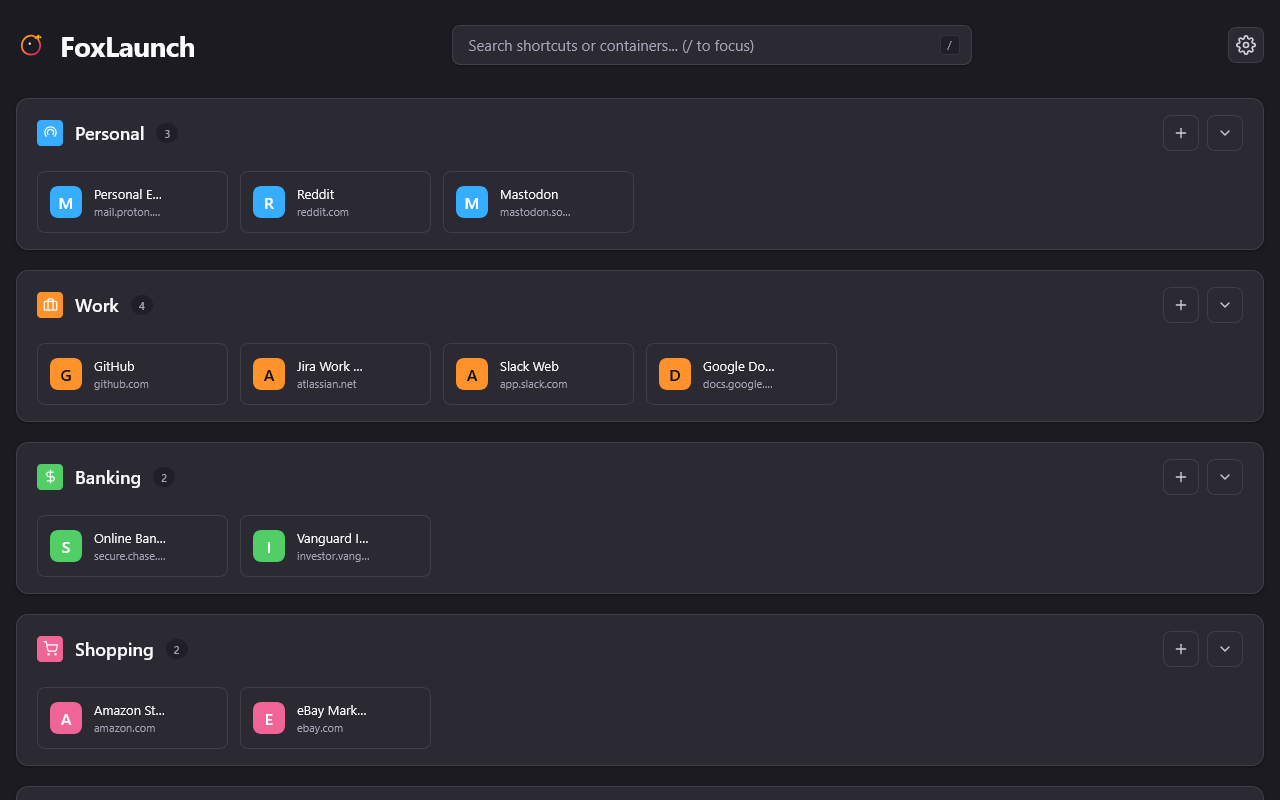
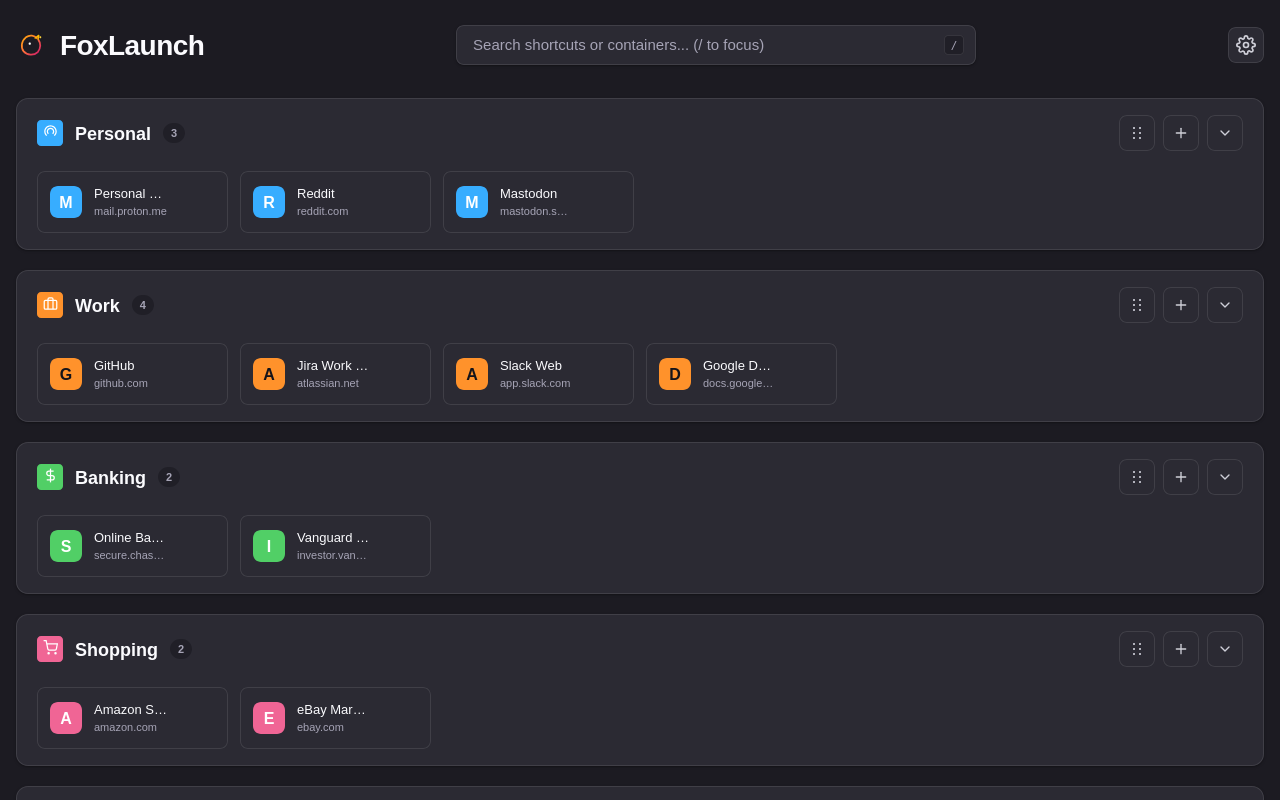
feat(swimlane): enable drag-and-drop ordering

diff --git a/src/app.ts b/src/app.ts
@@ -13,8 +13,9 @@ import './styles/onboarding.css';
 
 import type { ContainerContext, ShortcutItem, FoxLaunchSettings, ThemeMode } from './types';
 import { getContainers } from './services/containers';
-import { getShortcuts, getSettings, addShortcut, updateShortcut, deleteShortcut, saveShortcuts } from './services/storage';
+import { getShortcuts, getSettings, addShortcut, updateShortcut, deleteShortcut, saveShortcuts, saveSettings } from './services/storage';
 import { renderSwimlane, type SwimlaneCallbacks } from './components/swimlane';
+import { setupSwimlaneReordering } from './components/dragDrop';
 import { initSearch, type SearchController } from './components/search';
 import { openShortcutModal } from './components/modal';
 import { openSettingsModal } from './components/settingsModal';
@@ -24,6 +25,7 @@ import { showUndoToast } from './components/toast';
 let searchController: SearchController | null = null;
 let appSettings: FoxLaunchSettings;
 let discoveredContainers: ContainerContext[] = [];
+let swimlaneReorderingInitialized = false;
 
 let themeMediaQueryList: MediaQueryList | null = null;
 let themeChangeHandler: ((e: MediaQueryListEvent) => void) | null = null;
@@ -165,6 +167,25 @@ async function handleReorderShortcuts(cookieStoreId: string, _reordered: Shortcu
   await refreshSwimlane(cookieStoreId);
 }
 
+async function handleReorderSwimlanes(cookieStoreIds: string[]): Promise<void> {
+  appSettings = await saveSettings({ swimlaneOrder: cookieStoreIds });
+}
+
+function orderContainers(containers: ContainerContext[], order: string[]): ContainerContext[] {
+  const containersById = new Map(containers.map((container) => [container.cookieStoreId, container]));
+  const ordered: ContainerContext[] = [];
+  const orderedIds = new Set<string>();
+  order.forEach((cookieStoreId) => {
+    const container = containersById.get(cookieStoreId);
+    if (container && !orderedIds.has(cookieStoreId)) {
+      ordered.push(container);
+      orderedIds.add(cookieStoreId);
+    }
+  });
+
+  return [...ordered, ...containers.filter((container) => !orderedIds.has(container.cookieStoreId))];
+}
+
 export async function initializeApp(): Promise<void> {
   const startTime = performance.now();
   try {
@@ -187,6 +208,11 @@ export async function initializeApp(): Promise<void> {
   // Mount swimlanes
   const swimlanesContainer = document.getElementById('swimlanes-container');
   if (swimlanesContainer) {
+    if (!swimlaneReorderingInitialized) {
+      setupSwimlaneReordering(swimlanesContainer, handleReorderSwimlanes);
+      swimlaneReorderingInitialized = true;
+    }
+
     swimlanesContainer.replaceChildren();
     const fragment = document.createDocumentFragment();
 
@@ -197,7 +223,7 @@ export async function initializeApp(): Promise<void> {
       onReorderShortcuts: (cid, reordered) => handleReorderShortcuts(cid, reordered),
     };
 
-    containers.forEach((container) => {
+    orderContainers(containers, settings.swimlaneOrder).forEach((container) => {
       const shortcuts = shortcutsMap[container.cookieStoreId] || [];
       const swimlaneEl = renderSwimlane(container, shortcuts, appSettings, callbacks);
       fragment.appendChild(swimlaneEl);

diff --git a/src/components/dragDrop.ts b/src/components/dragDrop.ts
@@ -87,3 +87,72 @@ export function setupSwimlaneDragAndDrop(
     document.querySelectorAll('.drag-over').forEach((el) => el.classList.remove('drag-over'));
   });
 }
+
+export function setupSwimlaneReordering(
+  container: HTMLElement,
+  onReordered: (cookieStoreIds: string[]) => Promise<void> | void
+): void {
+  let draggedSwimlane: HTMLElement | null = null;
+
+  const clearDragState = () => {
+    draggedSwimlane?.classList.remove('is-dragging');
+    draggedSwimlane = null;
+    container.querySelectorAll('.swimlane.drag-over').forEach((lane) => lane.classList.remove('drag-over'));
+  };
+
+  container.addEventListener('dragstart', (event: DragEvent) => {
+    const handle = (event.target as HTMLElement).closest<HTMLElement>('.swimlane-drag-handle');
+    const swimlane = handle?.closest<HTMLElement>('.swimlane');
+    if (!swimlane) return;
+
+    draggedSwimlane = swimlane;
+    swimlane.classList.add('is-dragging');
+
+    if (event.dataTransfer) {
+      event.dataTransfer.effectAllowed = 'move';
+      event.dataTransfer.setData('text/plain', swimlane.dataset.cookieStoreId || '');
+    }
+  });
+
+  container.addEventListener('dragover', (event: DragEvent) => {
+    if (!draggedSwimlane) return;
+
+    const target = (event.target as HTMLElement).closest<HTMLElement>('.swimlane');
+    if (!target || target === draggedSwimlane || target.parentElement !== container) return;
+
+    event.preventDefault();
+    if (event.dataTransfer) event.dataTransfer.dropEffect = 'move';
+
+    container.querySelectorAll('.swimlane.drag-over').forEach((lane) => lane.classList.remove('drag-over'));
+    target.classList.add('drag-over');
+  });
+
+  container.addEventListener('drop', async (event: DragEvent) => {
+    if (!draggedSwimlane) return;
+
+    const target = (event.target as HTMLElement).closest<HTMLElement>('.swimlane');
+    if (!target || target === draggedSwimlane || target.parentElement !== container) return;
+
+    event.preventDefault();
+    const bounds = target.getBoundingClientRect();
+    if (event.clientY < bounds.top + bounds.height / 2) {
+      container.insertBefore(draggedSwimlane, target);
+    } else {
+      target.after(draggedSwimlane);
+    }
+
+    const cookieStoreIds = Array.from(container.children)
+      .filter((child): child is HTMLElement => child instanceof HTMLElement && child.classList.contains('swimlane'))
+      .map((lane) => lane.dataset.cookieStoreId)
+      .filter((id): id is string => Boolean(id));
+
+    clearDragState();
+    try {
+      await onReordered(cookieStoreIds);
+    } catch (error) {
+      console.error('[FoxLaunch] Failed to persist swimlane order:', error);
+    }
+  });
+
+  container.addEventListener('dragend', clearDragState);
+}

diff --git a/tests/e2e/harness.spec.ts b/tests/e2e/harness.spec.ts
@@ -63,6 +63,37 @@ test.describe('Mock WebExtension Test Harness Verification', () => {
     expect(reloadedStorage.foxlaunch_shortcuts['firefox-container-1'][1].title).toBe('GitHub');
   });
 
+  test('swimlane drag-and-drop order persists across page reload', async ({ openFoxLaunch, page, mockHarness }) => {
+    await openFoxLaunch({ containers: DEFAULT_MOCK_CONTAINERS });
+
+    await page
+      .locator('#swimlane-firefox-container-1 .swimlane-drag-handle')
+      .dragTo(page.locator('#swimlane-firefox-container-3 .swimlane-drag-handle'));
+
+    const reorderedIds = await page.locator('#swimlanes-container > .swimlane').evaluateAll((lanes) =>
+      lanes.map((lane) => lane.getAttribute('data-cookie-store-id'))
+    );
+    expect(reorderedIds).toEqual([
+      'firefox-container-2',
+      'firefox-container-1',
+      'firefox-container-3',
+      'firefox-container-4',
+      'firefox-default',
+    ]);
+
+    const settings = await page.evaluate(async () => {
+      const { foxlaunch_settings } = await window.browser.storage.local.get('foxlaunch_settings');
+      return foxlaunch_settings;
+    });
+    expect(settings.swimlaneOrder).toEqual(reorderedIds);
+
+    await mockHarness.reloadPage();
+    const reloadedIds = await page.locator('#swimlanes-container > .swimlane').evaluateAll((lanes) =>
+      lanes.map((lane) => lane.getAttribute('data-cookie-store-id'))
+    );
+    expect(reloadedIds).toEqual(reorderedIds);
+  });
+
   test('browser.tabs.create records dispatched tabs accurately', async ({ openFoxLaunch, page, mockHarness }) => {
     await openFoxLaunch();
 

diff --git a/tests/unit/storage.test.ts b/tests/unit/storage.test.ts
@@ -97,6 +97,7 @@ test.describe('Storage Service (browser.storage.local)', () => {
     expect(settings.theme).toBe('auto');
     expect(settings.firstRunDismissed).toBe(false);
     expect(settings.swimlaneCollapse['firefox-default']).toBe(true);
+    expect(settings.swimlaneOrder).toEqual([]);
   });
 
   test('saveSettings merges partial settings properly and preserves other fields', async () => {
@@ -123,6 +124,19 @@ test.describe('Storage Service (browser.storage.local)', () => {
     expect(s2.swimlaneCollapse['firefox-default']).toBe(true);
     expect(s2.swimlaneCollapse['firefox-container-1']).toBe(false);
     expect(s2.swimlaneCollapse['firefox-container-2']).toBe(true);
+  });
+
+  test('saveSettings persists swimlane order alongside other settings', async () => {
+    await saveSettings({ swimlaneOrder: ['firefox-container-2', 'firefox-container-1'] });
+    expect((await getSettings()).swimlaneOrder).toEqual([
+      'firefox-container-2',
+      'firefox-container-1',
+    ]);
+
+    await saveSettings({ theme: 'dark' });
+    const settings = await getSettings();
+    expect(settings.theme).toBe('dark');
+    expect(settings.swimlaneOrder).toEqual(['firefox-container-2', 'firefox-container-1']);
   });
 
   test('addShortcut generates id, timestamp, order, and domain', async () => {

diff --git a/src/components/swimlane.ts b/src/components/swimlane.ts
@@ -156,6 +156,23 @@ export function renderSwimlane(
   const actions = document.createElement('div');
   actions.className = 'swimlane-header-actions';
 
+  const dragHandle = document.createElement('button');
+  dragHandle.type = 'button';
+  dragHandle.className = 'btn-icon swimlane-drag-handle';
+  dragHandle.draggable = true;
+  dragHandle.setAttribute('aria-label', `Reorder ${container.name} swimlane`);
+  dragHandle.title = 'Drag to reorder';
+  const gripSvg = createSvg({ width: '16', height: '16', viewBox: '0 0 16 16', fill: 'currentColor', 'aria-hidden': 'true' }, [
+    createSvgElement('circle', { cx: '5', cy: '3', r: '1' }),
+    createSvgElement('circle', { cx: '11', cy: '3', r: '1' }),
+    createSvgElement('circle', { cx: '5', cy: '8', r: '1' }),
+    createSvgElement('circle', { cx: '11', cy: '8', r: '1' }),
+    createSvgElement('circle', { cx: '5', cy: '13', r: '1' }),
+    createSvgElement('circle', { cx: '11', cy: '13', r: '1' }),
+  ]);
+  dragHandle.appendChild(gripSvg);
+  actions.appendChild(dragHandle);
+
   const addBtn = document.createElement('button');
   addBtn.type = 'button';
   addBtn.className = 'btn-icon btn-add-shortcut';

diff --git a/src/services/storage.ts b/src/services/storage.ts
@@ -20,6 +20,7 @@ export const DEFAULT_SETTINGS: FoxLaunchSettings = {
   swimlaneCollapse: {
     'firefox-default': true, // Collapsed by default per R1 & Pilot Plan §D6
   },
+  swimlaneOrder: [],
 };
 
 /**
@@ -219,6 +220,9 @@ export async function getSettings(): Promise<FoxLaunchSettings> {
         ...DEFAULT_SETTINGS.swimlaneCollapse,
         ...(raw.swimlaneCollapse || {}),
       },
+      swimlaneOrder: Array.isArray(raw.swimlaneOrder)
+        ? [...new Set(raw.swimlaneOrder.filter((id): id is string => typeof id === 'string'))]
+        : [...DEFAULT_SETTINGS.swimlaneOrder],
     };
   } catch (error) {
     console.error('[FoxLaunch] Error reading settings:', error);

diff --git a/src/styles/swimlane.css b/src/styles/swimlane.css
@@ -19,6 +19,15 @@
   border-color: var(--border-strong);
 }
 
+.swimlane.is-dragging {
+  opacity: 0.5;
+}
+
+.swimlane.drag-over {
+  border-color: var(--focus-ring-active);
+  box-shadow: 0 0 0 2px var(--focus-ring-active);
+}
+
 /* Swimlane Header */
 .swimlane-header {
   display: flex;
@@ -74,6 +83,14 @@
   display: flex;
   align-items: center;
   gap: var(--space-2);
+}
+
+.swimlane-drag-handle {
+  cursor: grab;
+}
+
+.swimlane-drag-handle:active {
+  cursor: grabbing;
 }
 
 .swimlane-toggle svg {

diff --git a/tests/fixtures/presets.ts b/tests/fixtures/presets.ts
@@ -84,6 +84,7 @@ export const DEFAULT_SETTINGS: FoxLaunchSettings = {
   swimlaneCollapse: {
     'firefox-default': true, // Collapsed by default per pilot-plan §D6
   },
+  swimlaneOrder: [],
 };
 
 export const ONBOARDING_SETTINGS: FoxLaunchSettings = {
@@ -94,6 +95,7 @@ export const ONBOARDING_SETTINGS: FoxLaunchSettings = {
   swimlaneCollapse: {
     'firefox-default': true,
   },
+  swimlaneOrder: [],
 };
 
 export function makeShortcut(

diff --git a/src/types/index.ts b/src/types/index.ts
@@ -56,6 +56,8 @@ export interface FoxLaunchSettings {
   firstRunDismissed: boolean;
   /** Map of container cookieStoreId to collapse state (true = collapsed, false = expanded) */
   swimlaneCollapse: Record<string, boolean>;
+  /** Ordered container cookieStoreIds for swimlane display */
+  swimlaneOrder: string[];
 }
 
 /**
